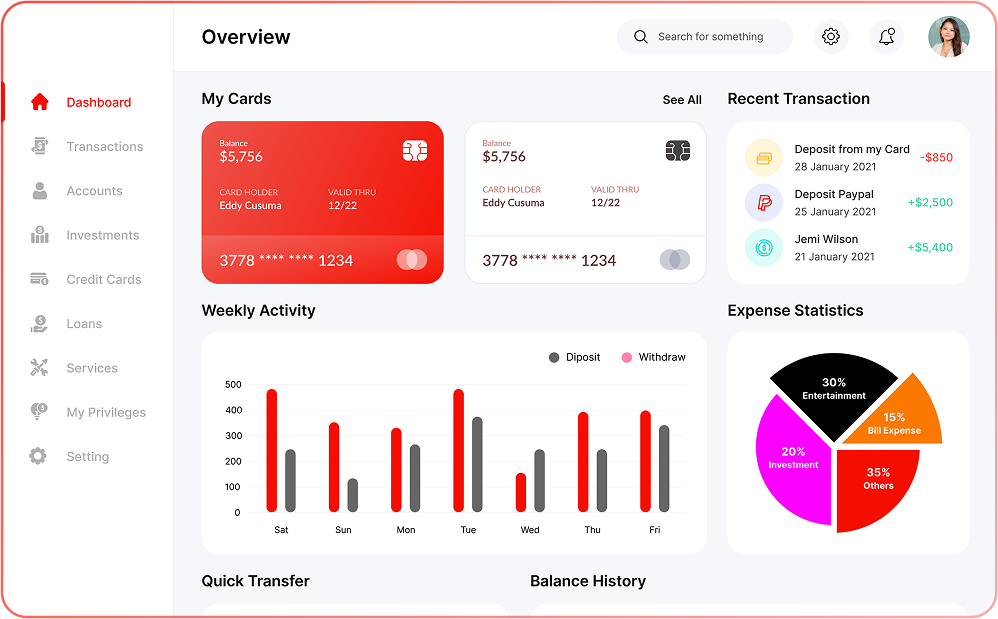
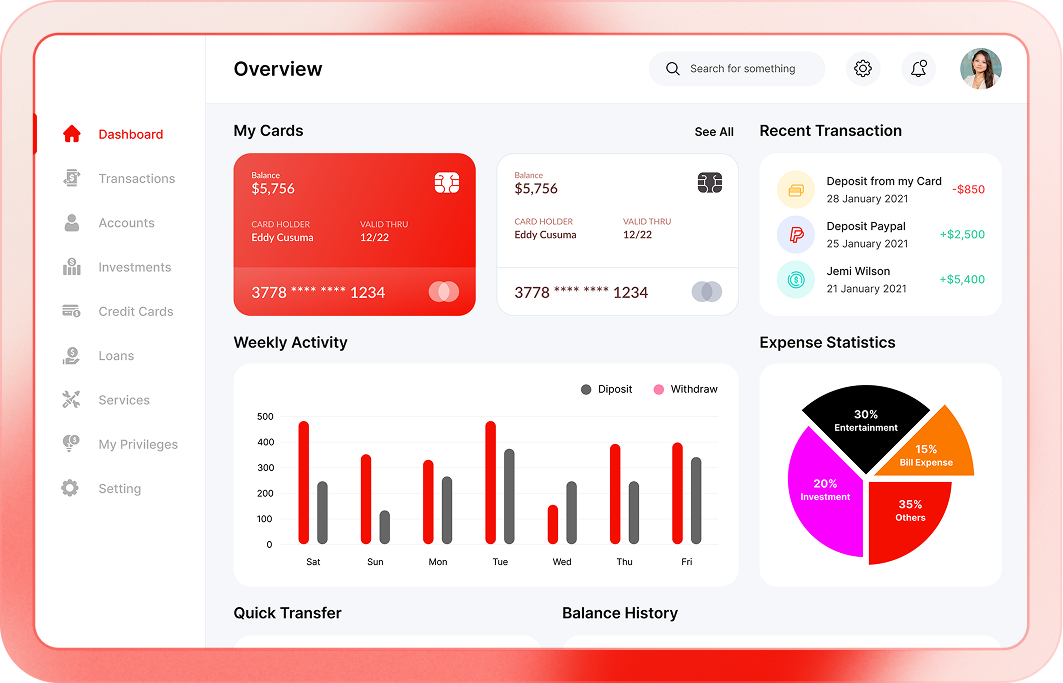
fixes all

diff --git a/components/Locations/pages/SoftwareDevelopmentCompanyinAustin/Hero.jsx b/components/Locations/pages/SoftwareDevelopmentCompanyinAustin/Hero.jsx
@@ -39,6 +39,13 @@ function Hero() {
           src={"/locations/software-dev-company-austin/gradient.png"}
           width={800}
           height={1000}
+          className="absolute top-0 w-full md:block hidden"
+          alt="Gradient background"
+        />
+        <Image
+          src={"/locations/software-dev-company-austin/grids.png"}
+          width={800}
+          height={1000}
           className="absolute top-0 w-full"
           alt="Gradient background"
         />
@@ -53,7 +60,7 @@ function Hero() {
               duration: 0.6, 
               ease: [0.34, 1.56, 0.64, 1] // Bouncy easing for popup effect
             }}
-            className="absolute -top-7 left-1/2 translate-x-[-50%] z-30"
+            className="absolute -top-6 left-[40%] translate-x-[-50%] z-30"
           >
             {/* Continuous floating animation after popup */}
             <motion.div
@@ -87,7 +94,7 @@ function Hero() {
               width={1000}
               height={1000}
               alt="Austin city background"
-              className="object-cover relative z-0 mx-auto w-[70%] mt-5"
+              className="object-cover relative z-0 mx-auto w-[70%] mt-20 -mb-12"
               priority
             />
           </motion.div>
